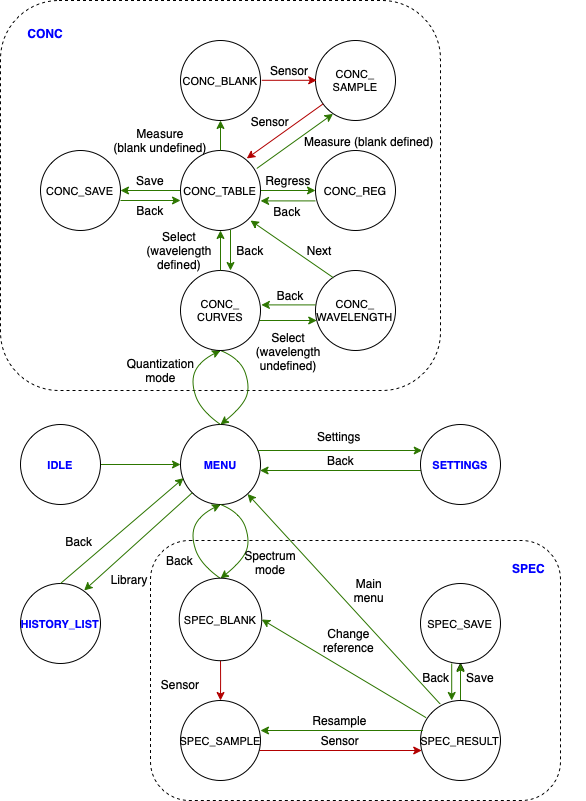
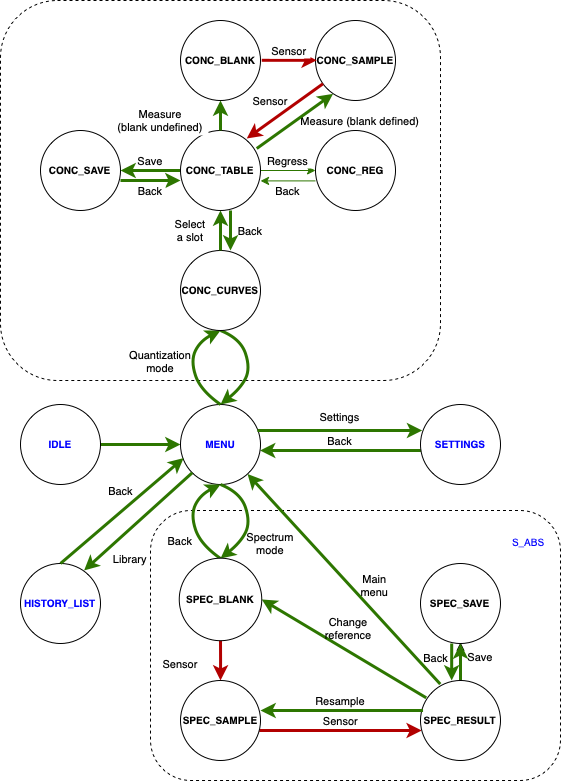
Add conclusion draft and revise FSM diagram

diff --git a/paper-kelompok/main.tex b/paper-kelompok/main.tex
@@ -198,8 +198,8 @@ Accuracy was expected to decrease as wavelength decreases due to weakening lamp 
 \subsection{Wavelength Range}
 \subsection{Resolution}
 Resolution testing is carried out by calculating the resolution of the measurement results stored on an external SD card in the form of a CSV file.
-The number of pixels needed for the absorbance spectrum measurement, which is obtained from the calibration results, is 297.
-The absorbance measurement results are stored on an external SD card with a resolution that can be calculated using (\ref{resolution}).
+The number of pixels needed for the absorbance spectrum measurement, which is obtained from the calibration results, was 297.
+The absorbance measurement results are stored on an external SD card with a resolution that can be calculated using Equation (\ref{resolution}).
 
 \begin{equation}
     resolution=\frac{\lambda_{max} - \lambda_{min}}{n_{pixels}}=\frac{(700 - 400)nm}{393}\approx0.77nm
@@ -236,6 +236,12 @@ The user should click the REGRESS button to calculate the concentration of the u
     \end{figure}
 
 \section{Conclusions}
+To support the study of spectrophotometry analysis in DMF platform, we describe the assembly of a portable spectrophotometer that can be integrated with a particular DMF system.
+The portability makes on-the-go research processes easier.
+Data acquisition, storage, and user experience is made simpler by our developed portable visible spectrophotometer and a user-friendly interface.
+Measurement's accuracy of red, blue, and yellow food dyes and its repeatability demonstrated good performances in experimental validation versus commercial spectrophotometer (Evolution 220 by Thermo Fisher Scientific).
+The colorimetrice glucose assay (maximum of absorbance at 540 nm) measurements were comparable but quite inferior; these issues could be resolved by ...
+Future work will focus on...
 
 \section*{References}
 
